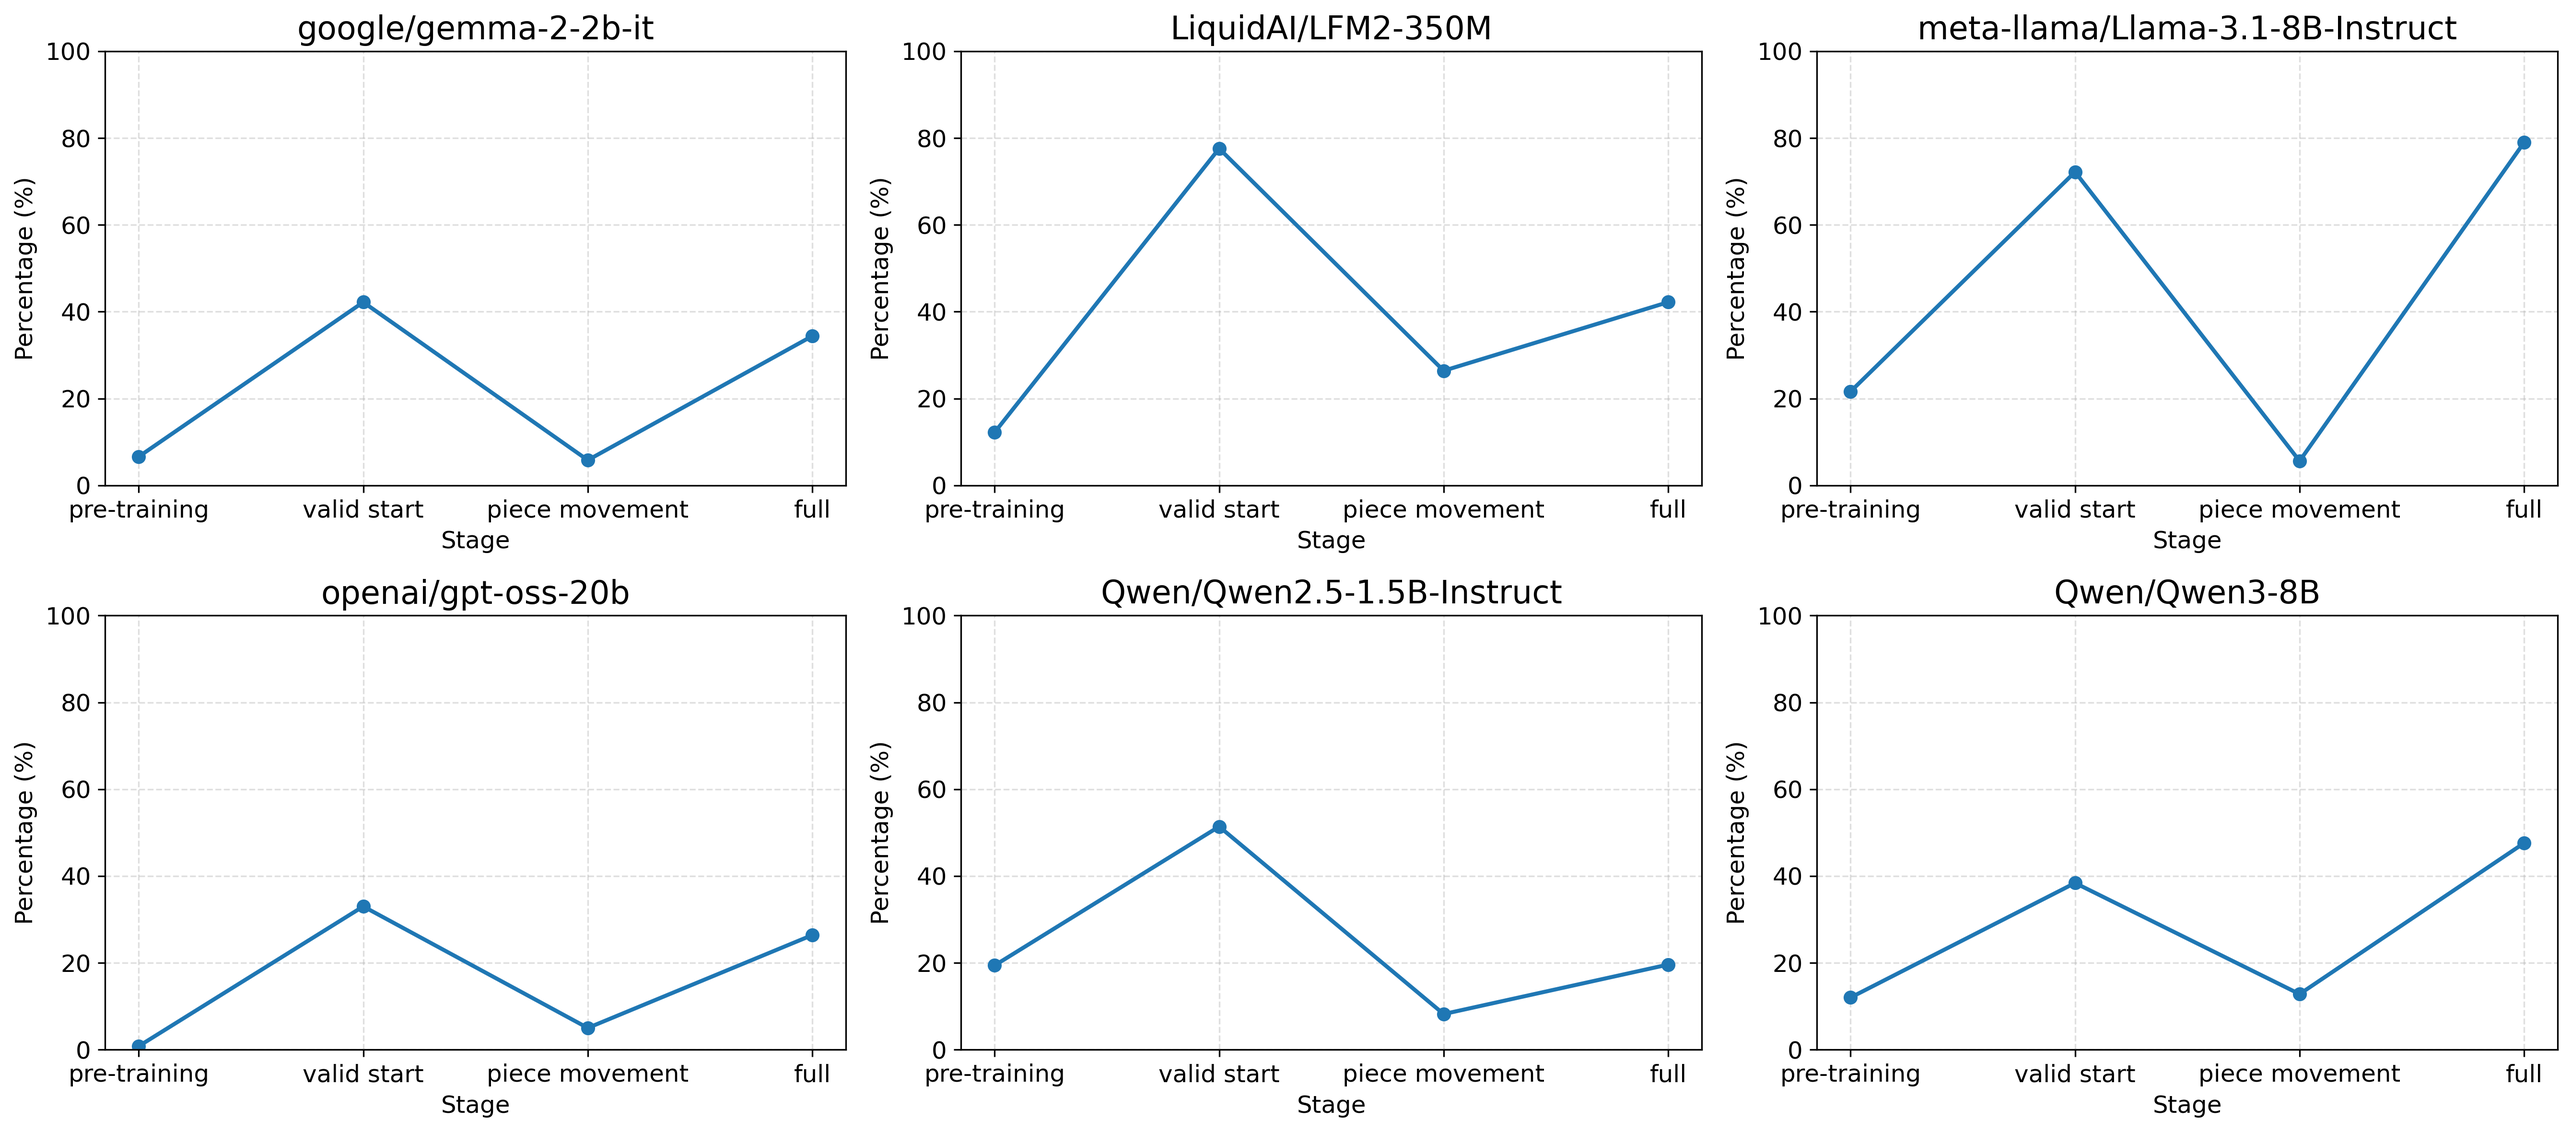
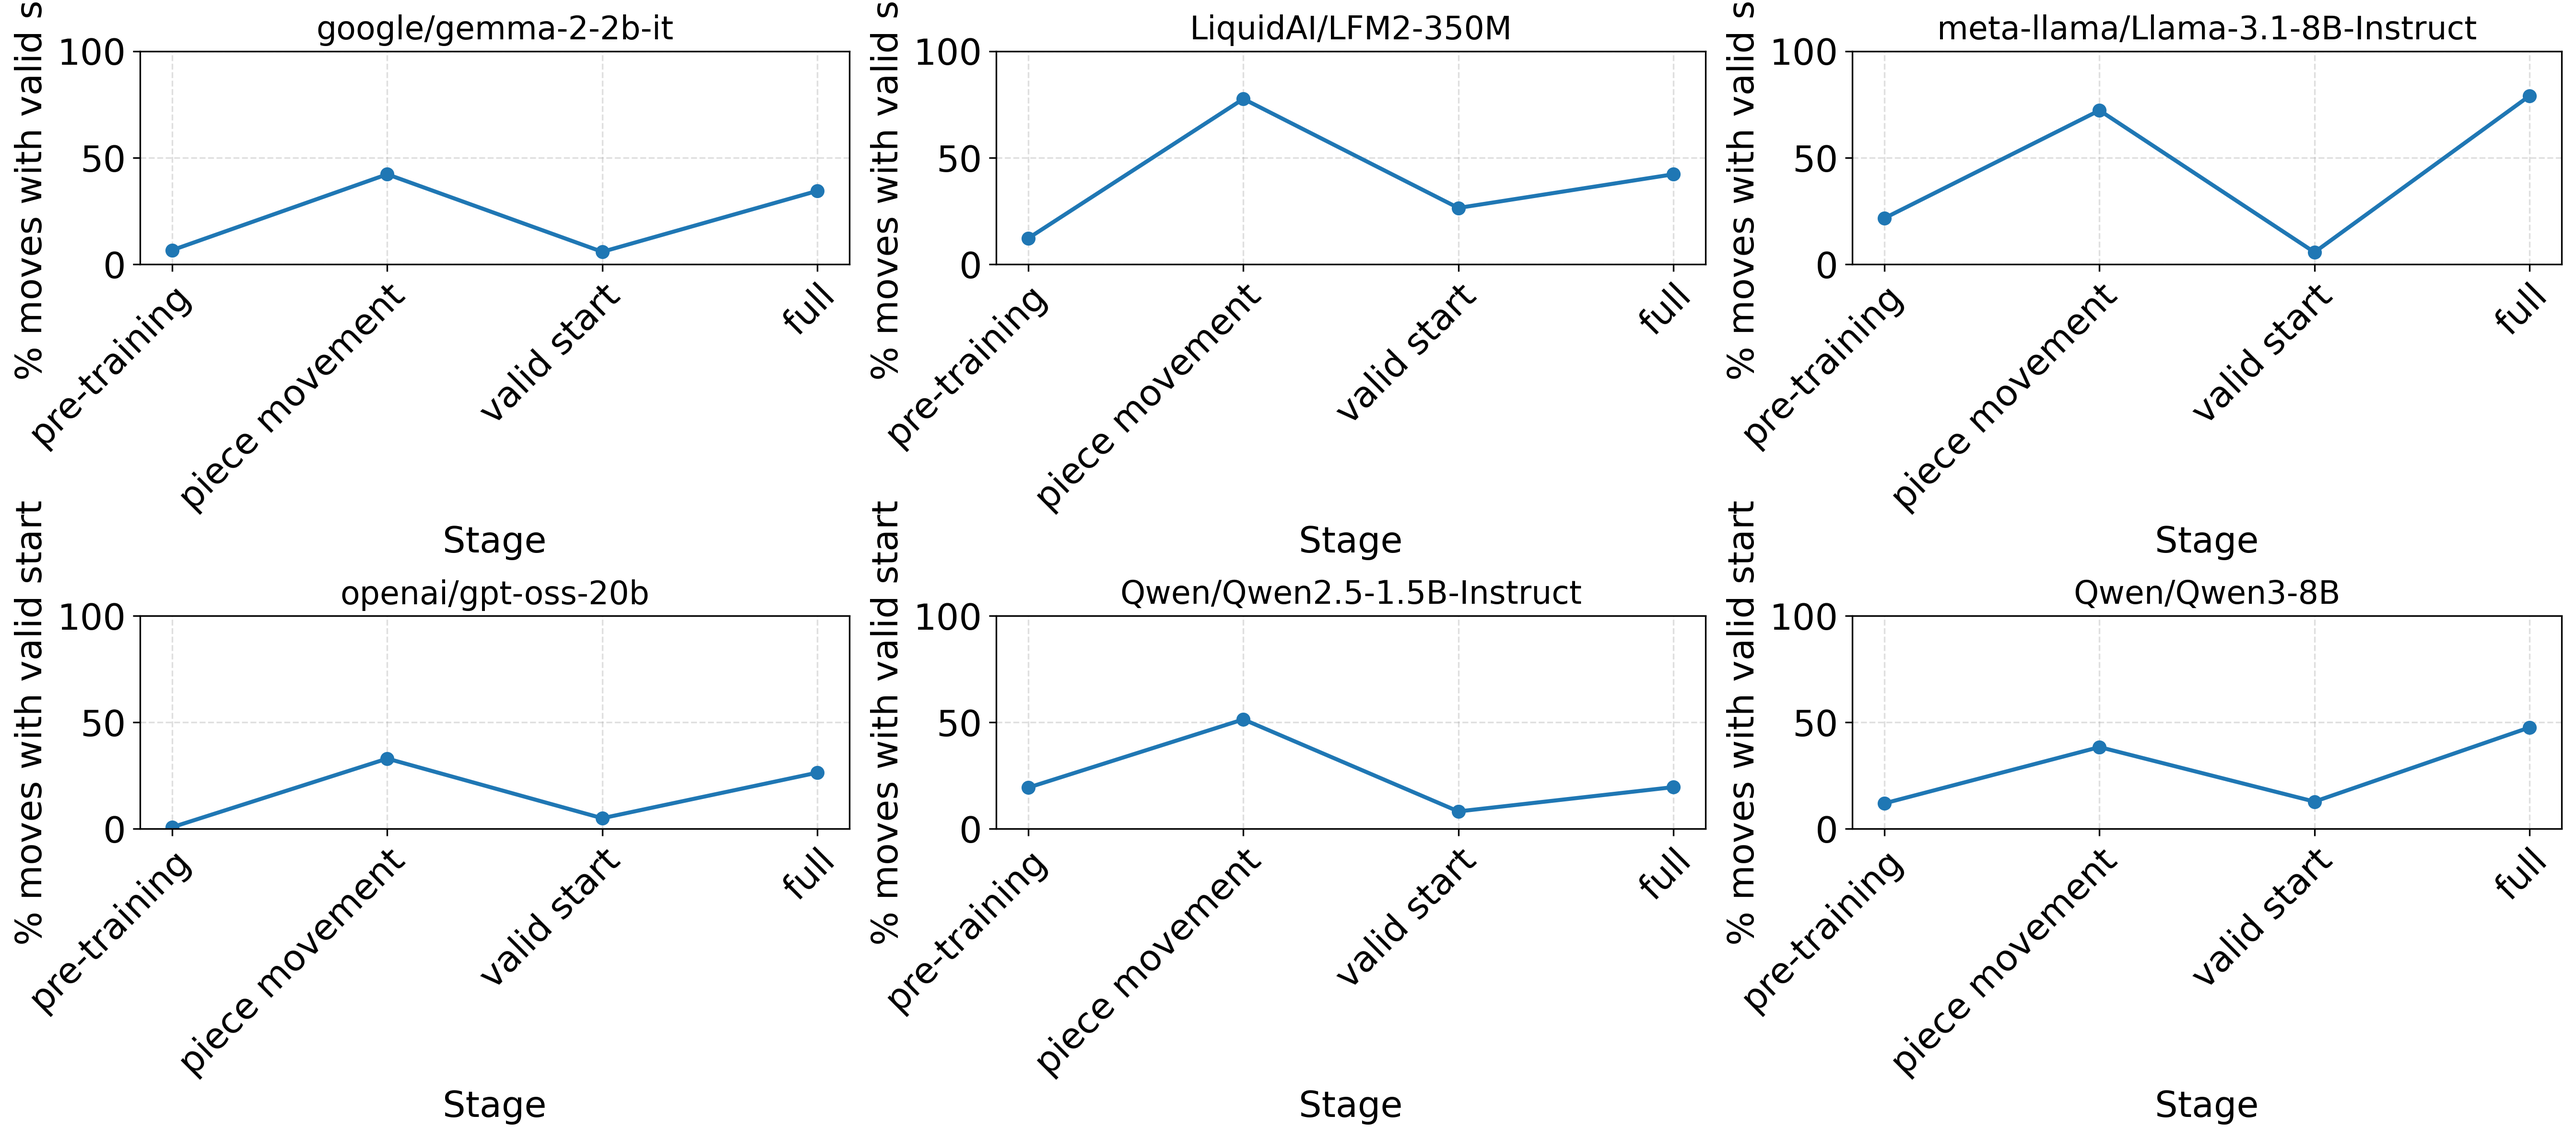
Update graph script

diff --git a/cl2-xiangqi/graph.py b/cl2-xiangqi/graph.py
@@ -30,15 +30,17 @@ def main():
 
     for ax, y, title in zip(axes, y_values, titles):
         # Increase font size of x and y labels
-        ax.tick_params(axis='x', labelsize=12)
-        ax.tick_params(axis='y', labelsize=12)
+        ax.tick_params(axis='x', labelsize=18)
+        ax.tick_params(axis='y', labelsize=18)
         ax.plot(x, y, marker="o", linewidth=2)
         ax.set_title(title, fontsize=16)
-        ax.set_xlabel("Stage", fontsize=12)
-        ax.set_ylabel("Percentage (%)", fontsize=12)
+        ax.set_xlabel("Stage", fontsize=18)
+        ax.set_ylabel("% moves with valid start", fontsize=18)
         # y range: 0 to 100
         ax.set_ylim(0, 100)
         ax.grid(True, linestyle="--", alpha=0.4)
+        ax.set_xticks(range(len(x)))
+        ax.set_xticklabels(x, rotation=45, ha='right', rotation_mode="anchor")
 
     plt.tight_layout()
     plt.savefig(fig_name, dpi=300, bbox_inches="tight")
